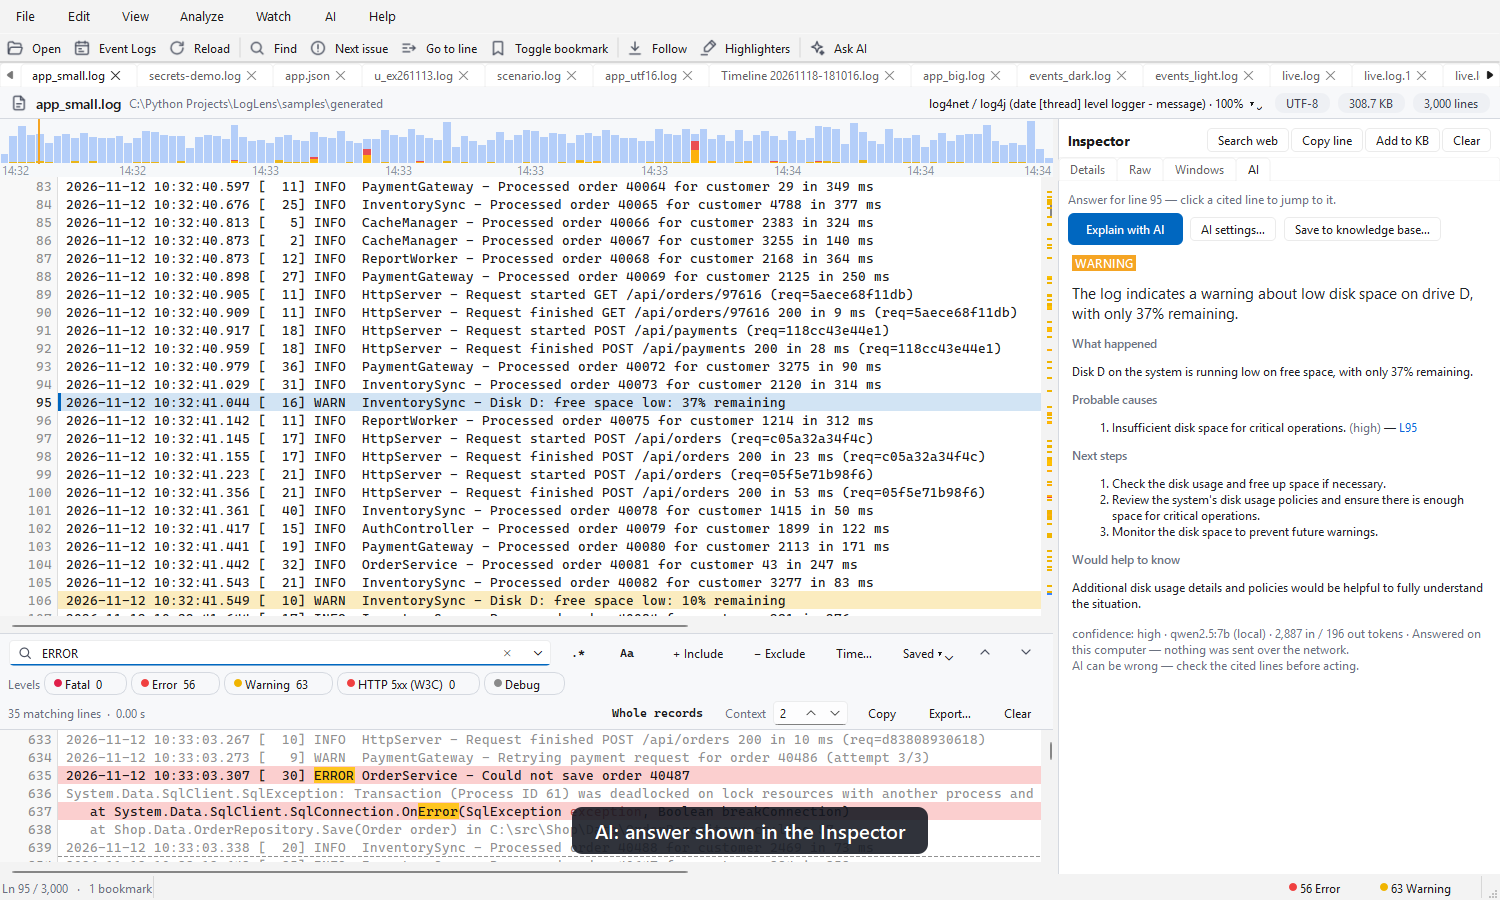
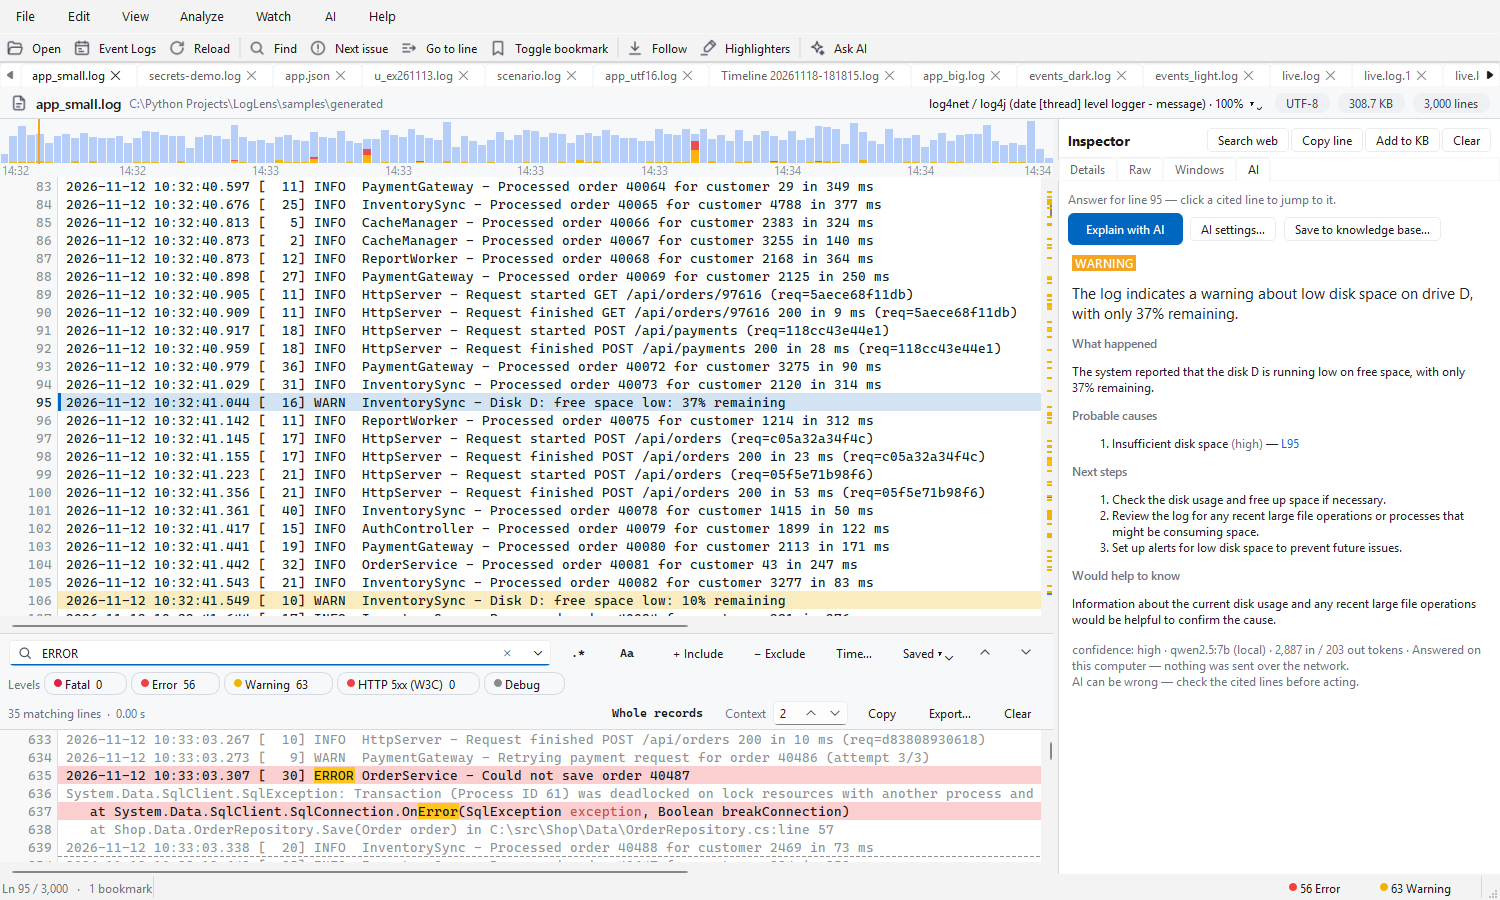
README: caption-free screenshots, correct tour length

Changed region(s): [[0.7053, 0.4044, 0.9813, 0.7778], [0.368, 0.8711, 0.644, 0.9644]]

diff --git a/tools/demo.py b/tools/demo.py
@@ -155,8 +155,10 @@ class Demo:
         """Save a PNG of the window (or another widget) for the README; only with --shots."""
         if self.shots is None:
             return
+        self.caption.hide()  # captions belong in the video, not in README screenshots
         self.pump(0.4)
         (widget or self.win).grab().save(str(self.shots / f"{name}.png"))
+        self.caption.show()
 
     def say(self, text: str) -> None:
         self.caption.setText(text)

diff --git a/README.md b/README.md
@@ -15,7 +15,7 @@ an offline knowledge base that explains errors, and an optional AI assistant tha
 ![Python](https://img.shields.io/badge/python-3.12%2B-3776AB?style=flat-square)
 
 [**Download the installer**](https://github.com/ericharutyunyan1996/LogLens/releases/latest) ·
-[**Watch the 9-minute tour**](https://github.com/ericharutyunyan1996/LogLens/releases/download/demo/LogLens-demo-voice.mp4)
+[**Watch the 7-minute tour**](https://github.com/ericharutyunyan1996/LogLens/releases/download/demo/LogLens-demo-voice.mp4)
 
 <br>
 
